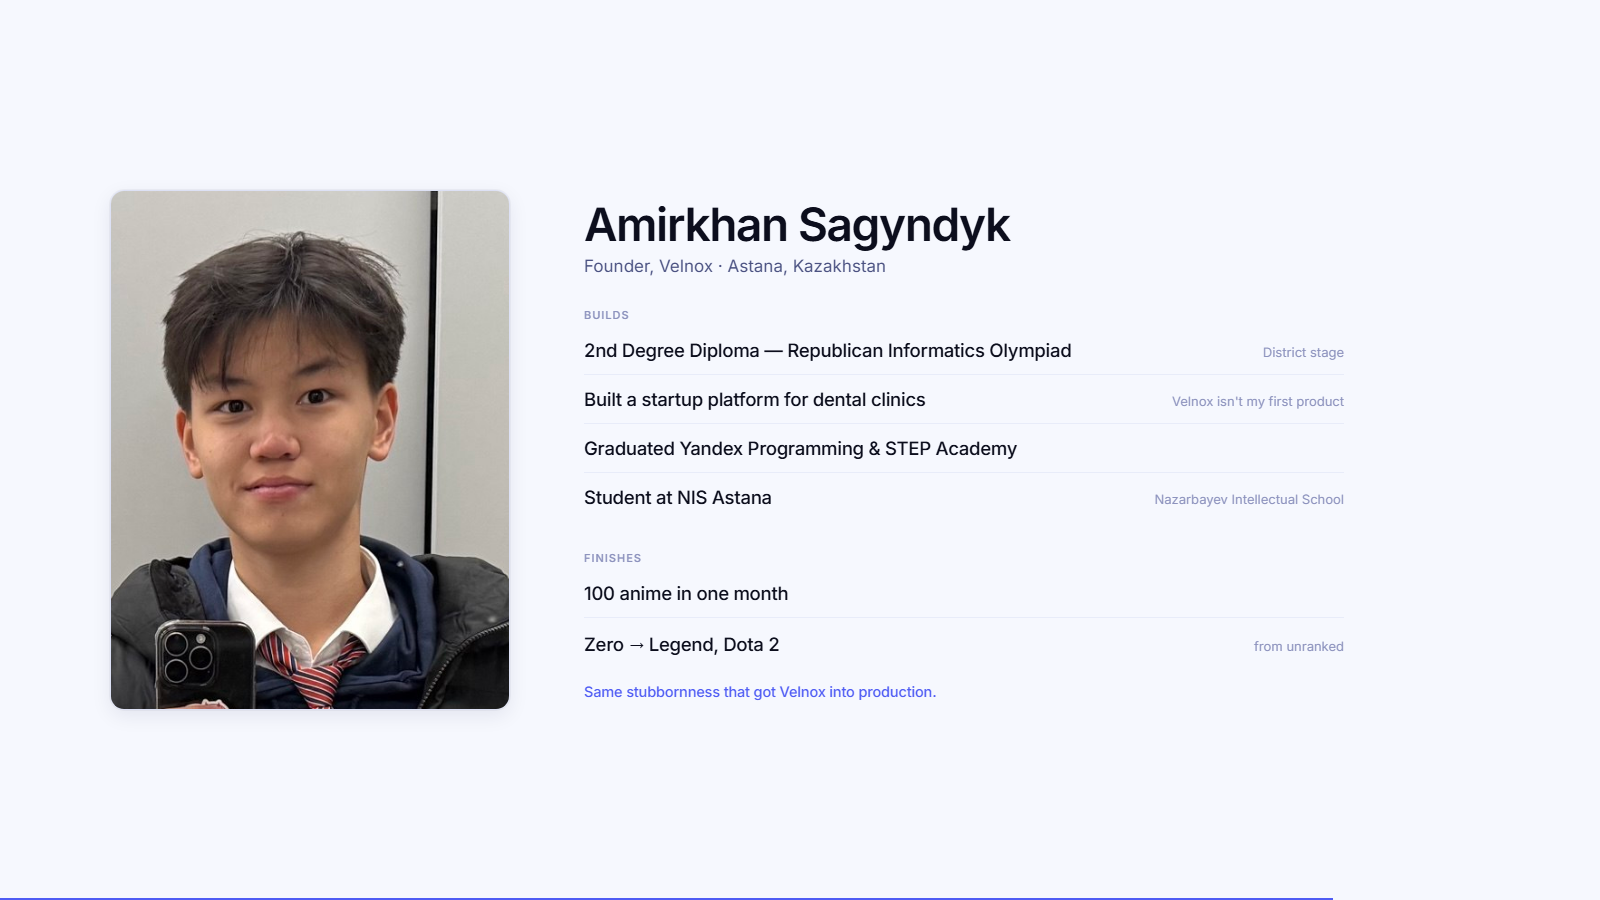
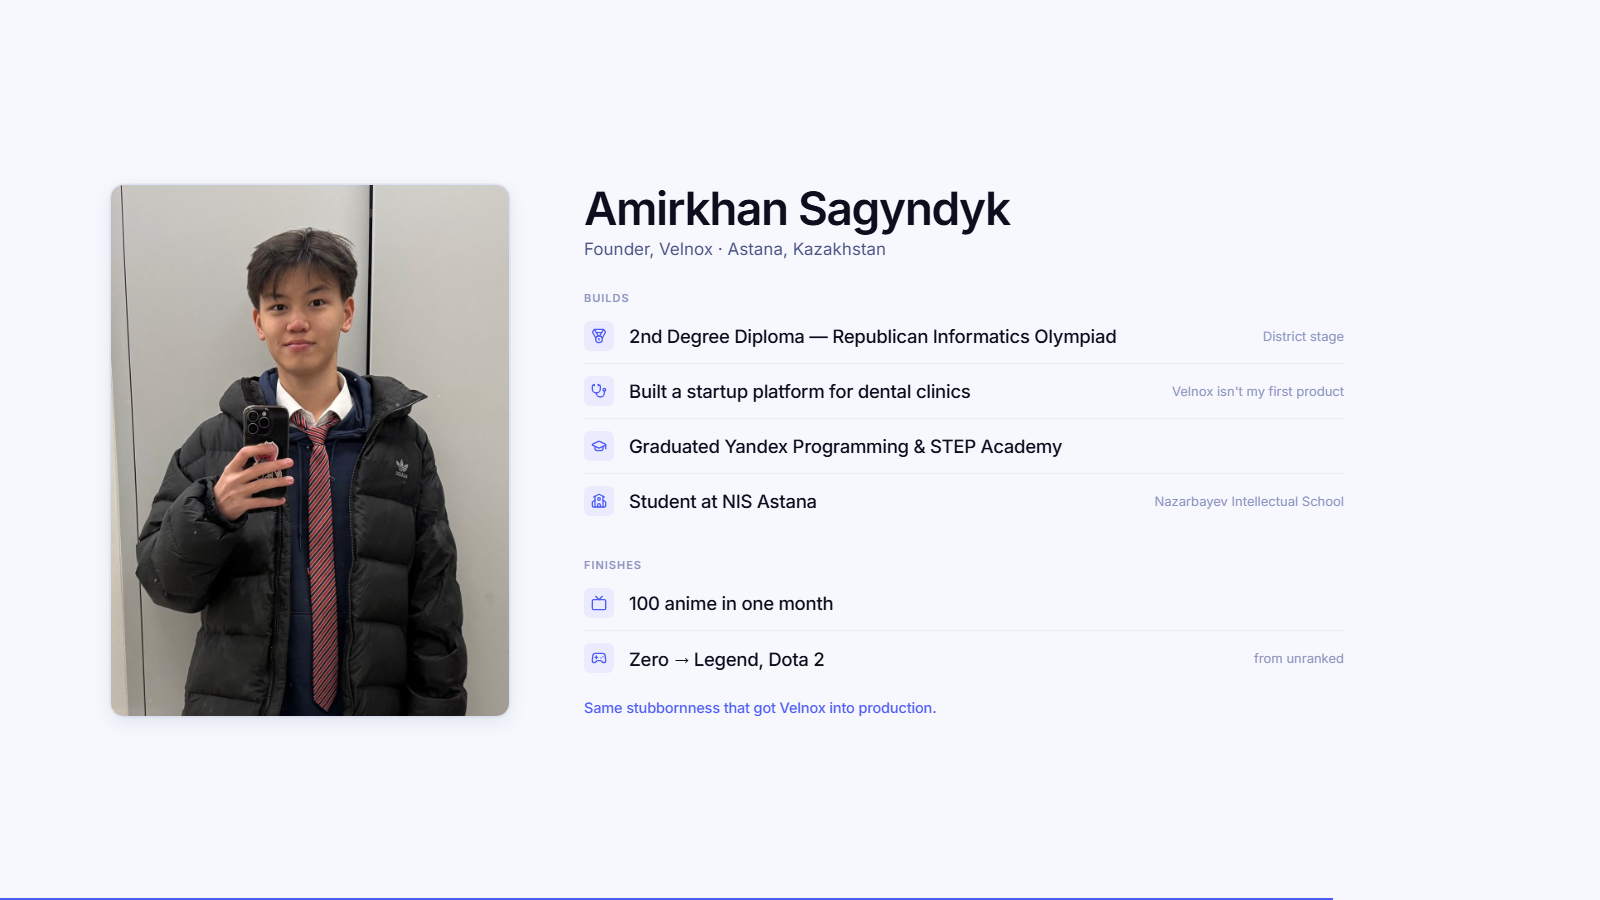
Rework deck slides 3, 5 and 6 again
Slide 3. The landing shot ran off the right edge as a deliberate bleed and read
as broken, which settles it — it now sits fully inside the stage (810 wide,
x690..1500). Adds the annotation the slide was missing: a pulsing ring on the
real "Start free" button with a "112 clicked this" tag. Its coordinates are
measured off the live DOM (left 44.16% / top 46.28% / w 11.67% / h 5.44% of the
1440x900 viewport the shot was taken at), not eyeballed against the PNG.

Slide 5. Photo is no longer re-cropped: the frame is 400x533, exactly the 3:4 of
founder.jpg, so cover crops nothing and the photo shows as framed. Adds lucide
icons to each fact row — the same set the app already uses in 71 places, in the
app's own tinted-square idiom, so they read as Velnox's furniture rather than
decoration.

Slide 6. The ask changes from "send me 10 pilot users" to "don't take my word
for it, open your own inbox". Mentors have no rolodex of freelancers, so asking
them to find one is homework they will defer; every one of them does have an
overflowing Gmail. Making them the user converts the room instead of taxing it,
and invites the critique mentors most like giving. The 10 survives as the stated
target in the footer.

diff --git a/deck/index.html b/deck/index.html
@@ -240,7 +240,7 @@ html, body {
 /* 112 of 500 is a genuinely nested ratio, so the bar can state it without
    inflating anything. It fills on slide entry — the one number worth watching
    arrive. */
-.conv { margin-top: 40px; width: 556px; }
+.conv { margin-top: 38px; width: 500px; }
 .conv-head { display: flex; justify-content: space-between; align-items: baseline; font-size: 13.5px; margin-bottom: 10px; }
 .conv-head span { color: var(--text-muted); }
 .conv-head b { font-weight: 600; color: var(--accent); font-size: 14px; }
@@ -265,16 +265,55 @@ html, body {
 /* The real landing page in real browser chrome — the brief's "realistic browser
    frame". This is the page the 500 visitors actually saw, so it belongs on the
    traction slide rather than a product one. Shot from production at 2×.
-   It bleeds off the right edge only; nothing is severed mid-element. */
+   Sized to sit entirely inside the stage: 810 wide → 506 of image + 38 of bar =
+   544, centred at y=178. An earlier cut ran it off the right edge as a bleed and
+   it just read as broken, which is the only vote that counts. */
 .s3-shot {
   position: absolute;
-  left: 748px; top: 140px;
-  width: 1020px;
+  left: 690px; top: 178px;
+  width: 810px;
   border-radius: var(--radius-xl);
   overflow: hidden;
   border: 1px solid var(--border);
   background: var(--bg-surface);
   box-shadow: var(--shadow-xl);
+}
+
+/* The annotation. Percentages come from the live DOM, not from eyeballing the
+   PNG: the hero CTA measures left 44.16% / top 46.28% / w 11.67% / h 5.44% of
+   the 1440×900 viewport the shot was taken at, inset by 8px a side for the ring.
+   Re-measure if the landing hero ever moves. */
+.shot-body { position: relative; line-height: 0; }
+.pin {
+  position: absolute;
+  left: 43.6%; top: 45.39%; width: 12.78%; height: 7.22%;
+  border: 2px solid var(--accent);
+  border-radius: var(--radius-sm);
+  box-shadow: 0 0 0 5px rgba(79, 92, 244, 0.13);
+}
+.slide[data-active] .pin { animation: pinPulse 2.6s var(--ease) 0.5s infinite; }
+@keyframes pinPulse {
+  0%, 100% { box-shadow: 0 0 0 5px rgba(79, 92, 244, 0.13); }
+  50%      { box-shadow: 0 0 0 11px rgba(79, 92, 244, 0.05); }
+}
+.pin-line {
+  position: absolute;
+  left: 56.4%; top: 49%;
+  width: 1.9%; height: 1.5px;
+  background: var(--accent); opacity: 0.45;
+}
+.pin-tag {
+  position: absolute;
+  left: 58.3%; top: 49%;
+  transform: translateY(-50%);
+  background: var(--bg-surface);
+  border: 1px solid var(--border);
+  border-radius: 100px;
+  padding: 5px 12px;
+  font-size: 11.5px; font-weight: 600; line-height: 1.3;
+  color: var(--accent);
+  box-shadow: var(--shadow-md);
+  white-space: nowrap;
 }
 .bbar {
   height: 38px; display: flex; align-items: center; gap: 12px;
@@ -336,20 +375,21 @@ html, body {
    under a label that names what they are evidence OF, an anime count and a Dota
    climb argue the same thing the olympiad does — he does not put things down. */
 #s5 { padding: 84px 110px; display: grid; grid-template-columns: 400px 1fr; gap: 74px; align-items: center; }
+/* 400×533 is exactly 3:4 — the aspect of founder.jpg (960×1280). With cover on a
+   matching ratio the crop is zero, so the frame shows the photo as shot. The
+   framing was chosen deliberately; the deck's job is to present it, not re-crop
+   it. Swapping in a photo of another aspect will crop — change these two numbers
+   to match it rather than letting cover decide. */
 .portrait {
   position: relative;
-  width: 400px; height: 520px;
+  width: 400px; height: 533px;
   border-radius: var(--radius-xl);
   overflow: hidden;
   background: var(--bg-elevated);
   border: 1px solid var(--border);
   box-shadow: var(--shadow-lg);
 }
-/* Framed to head-and-shoulders. The NIS collar and tie are load-bearing — they
-   corroborate the last line of "Builds" — while the phone and the mirror are
-   not. These three numbers are tuned to this exact 960×1280 file; a replacement
-   photo needs them re-checked, not inherited. */
-.portrait img { position: absolute; width: 870px; left: -245px; top: -52px; display: block; }
+.portrait img { width: 100%; height: 100%; object-fit: cover; display: block; }
 /* Shown only when deck/founder.jpg is absent. A typographic slot — never a
    stock face. public/photos/founder.jpg is stock imagery of an unrelated
    person and is deliberately not used here. */
@@ -369,20 +409,29 @@ html, body {
 .fact-group + .fact-group { margin-top: 30px; }
 .fact-group .label { display: block; margin-bottom: 4px; }
 
-/* No bullets, no ticks — the hairline rules already separate these, and a
-   column of check glyphs reads as a feature list, not as credibility. The meta
-   is right-aligned so the rows read as a ledger: claim, then its evidence. */
+/* Icons are lucide — the same set the product itself uses in 71 places, so they
+   read as Velnox's furniture rather than as decoration bought in. Tinted square
+   + accent glyph is the app's own idiom (see the AI Command Center chip). The
+   meta is right-aligned so each row reads as a ledger: claim, then its evidence. */
 .facts { list-style: none; display: flex; flex-direction: column; max-width: 760px; }
 .facts li {
-  padding: 13px 0;
+  padding: 12px 0;
   border-bottom: 1px solid var(--border-light);
   font-size: 18.5px;
   font-weight: 500;
   color: var(--text-primary);
   letter-spacing: -0.014em;
-  display: flex; align-items: baseline; gap: 20px;
+  display: flex; align-items: center; gap: 15px;
 }
 .facts li:last-child { border-bottom: 0; }
+.facts li .ico {
+  width: 30px; height: 30px; border-radius: var(--radius-sm);
+  background: var(--accent-dim);
+  color: var(--accent);
+  display: inline-flex; align-items: center; justify-content: center;
+  flex-shrink: 0;
+}
+.facts li .ico svg { width: 16px; height: 16px; display: block; }
 .facts li .m {
   font-size: 13px; color: var(--text-muted); font-weight: 400;
   letter-spacing: 0; margin-left: auto; text-align: right; white-space: nowrap;
@@ -559,9 +608,9 @@ html, body {
 
   <!-- ════ 3 · Traction ═════════════════════════════════════════════════ -->
   <section class="slide" id="s3">
-    <div style="position:relative; z-index:2; width:600px;">
-      <h2 class="r display-title" style="font-size:50px; margin-bottom:34px;">
-        It's live. <span class="muted-tail">People sign up.</span>
+    <div style="position:relative; z-index:2; width:520px;">
+      <h2 class="r display-title" style="font-size:50px; margin-bottom:32px;">
+        It's live.<br /><span class="muted-tail">People sign up.</span>
       </h2>
 
       <div class="r s3-hero">
@@ -585,13 +634,19 @@ html, body {
       </div>
     </div>
 
-    <!-- The page those 500 visitors landed on, shot from production at 2×. -->
+    <!-- The page those 500 visitors landed on, shot from production at 2×.
+         The ring sits on the real CTA they really clicked. -->
     <div class="r s3-shot">
       <div class="bbar">
         <span class="bdots"><i></i><i></i><i></i></span>
         <span class="burl">usevelnox.com</span>
       </div>
-      <img src="shots/landing.png" alt="The Velnox landing page at usevelnox.com" />
+      <div class="shot-body">
+        <img src="shots/landing.png" alt="The Velnox landing page at usevelnox.com" />
+        <span class="pin" aria-hidden="true"></span>
+        <span class="pin-line" aria-hidden="true"></span>
+        <span class="pin-tag">112 clicked this</span>
+      </div>
     </div>
   </section>
 
@@ -627,18 +682,36 @@ html, body {
       <div class="r fact-group">
         <span class="label">Builds</span>
         <ul class="facts">
-          <li>2nd Degree Diploma — Republican Informatics Olympiad <span class="m">District stage</span></li>
-          <li>Built a startup platform for dental clinics <span class="m">Velnox isn't my first product</span></li>
-          <li>Graduated Yandex Programming &amp; STEP Academy</li>
-          <li>Student at NIS Astana <span class="m">Nazarbayev Intellectual School</span></li>
+          <li>
+            <span class="ico"><svg viewBox="0 0 24 24" fill="none" stroke="currentColor" stroke-width="2" stroke-linecap="round" stroke-linejoin="round"><path d="M7.21 15 2.66 7.14a2 2 0 0 1 .13-2.2L4.4 2.8A2 2 0 0 1 6 2h12a2 2 0 0 1 1.6.8l1.6 2.14a2 2 0 0 1 .14 2.2L16.79 15"/><path d="M11 12 5.12 2.2"/><path d="m13 12 5.88-9.8"/><path d="M8 7h8"/><circle cx="12" cy="17" r="5"/><path d="M12 18v-2h-.5"/></svg></span>
+            2nd Degree Diploma — Republican Informatics Olympiad <span class="m">District stage</span>
+          </li>
+          <li>
+            <span class="ico"><svg viewBox="0 0 24 24" fill="none" stroke="currentColor" stroke-width="2" stroke-linecap="round" stroke-linejoin="round"><path d="M11 2v2"/><path d="M5 2v2"/><path d="M5 3H4a2 2 0 0 0-2 2v4a6 6 0 0 0 12 0V5a2 2 0 0 0-2-2h-1"/><path d="M8 15a6 6 0 0 0 12 0v-3"/><circle cx="20" cy="10" r="2"/></svg></span>
+            Built a startup platform for dental clinics <span class="m">Velnox isn't my first product</span>
+          </li>
+          <li>
+            <span class="ico"><svg viewBox="0 0 24 24" fill="none" stroke="currentColor" stroke-width="2" stroke-linecap="round" stroke-linejoin="round"><path d="M21.42 10.922a1 1 0 0 0-.019-1.838L12.83 5.18a2 2 0 0 0-1.66 0L2.6 9.08a1 1 0 0 0 0 1.832l8.57 3.908a2 2 0 0 0 1.66 0z"/><path d="M22 10v6"/><path d="M6 12.5V16a6 3 0 0 0 12 0v-3.5"/></svg></span>
+            Graduated Yandex Programming &amp; STEP Academy
+          </li>
+          <li>
+            <span class="ico"><svg viewBox="0 0 24 24" fill="none" stroke="currentColor" stroke-width="2" stroke-linecap="round" stroke-linejoin="round"><path d="M14 21v-3a2 2 0 0 0-4 0v3"/><path d="M18 4.933V21"/><path d="m4 6 7.106-3.79a2 2 0 0 1 1.788 0L20 6"/><path d="m6 11-3.52 2.147a1 1 0 0 0-.48.854V19a2 2 0 0 0 2 2h16a2 2 0 0 0 2-2v-5a1 1 0 0 0-.48-.853L18 11"/><path d="M6 4.933V21"/><circle cx="12" cy="9" r="2"/></svg></span>
+            Student at NIS Astana <span class="m">Nazarbayev Intellectual School</span>
+          </li>
         </ul>
       </div>
 
       <div class="r fact-group">
         <span class="label">Finishes</span>
         <ul class="facts">
-          <li>100 anime in one month</li>
-          <li>Zero → Legend, Dota 2 <span class="m">from unranked</span></li>
+          <li>
+            <span class="ico"><svg viewBox="0 0 24 24" fill="none" stroke="currentColor" stroke-width="2" stroke-linecap="round" stroke-linejoin="round"><path d="m17 2-5 5-5-5"/><rect width="20" height="15" x="2" y="7" rx="2"/></svg></span>
+            100 anime in one month
+          </li>
+          <li>
+            <span class="ico"><svg viewBox="0 0 24 24" fill="none" stroke="currentColor" stroke-width="2" stroke-linecap="round" stroke-linejoin="round"><line x1="6" x2="10" y1="11" y2="11"/><line x1="8" x2="8" y1="9" y2="13"/><line x1="15" x2="15.01" y1="12" y2="12"/><line x1="18" x2="18.01" y1="10" y2="10"/><path d="M17.32 5H6.68a4 4 0 0 0-3.978 3.59c-.006.052-.01.101-.017.152C2.604 9.416 2 14.456 2 16a3 3 0 0 0 3 3c1 0 1.5-.5 2-1l1.414-1.414A2 2 0 0 1 9.828 16h4.344a2 2 0 0 1 1.414.586L17 18c.5.5 1 1 2 1a3 3 0 0 0 3-3c0-1.545-.604-6.584-.685-7.258-.007-.05-.011-.1-.017-.151A4 4 0 0 0 17.32 5z"/></svg></span>
+            Zero → Legend, Dota 2 <span class="m">from unranked</span>
+          </li>
         </ul>
         <p class="s5-note">Same stubbornness that got Velnox into production.</p>
       </div>
@@ -653,17 +726,21 @@ html, body {
         <span style="font-size:28px;">velnox</span>
       </div>
 
-      <h2 class="r display-title" style="font-size:58px;">
-        I need <span id="cnt">10</span> pilot users.<br />
-        <span class="muted-tail">From you, I need one.</span>
+      <h2 class="r display-title" style="font-size:56px;">
+        Don't take my word for it.<br />
+        <span class="muted-tail">Open your own inbox.</span>
       </h2>
 
       <p class="r s6-sub">
-        One freelancer, agency owner or consultant who runs their business out of Gmail.
-        I'll onboard them myself, this week.
+        Scan it. Connect your Gmail. Velnox will name the client you've left
+        waiting longest — and draft the reply. If it gets you wrong, tell me and
+        I'll fix it this week.
       </p>
 
-      <p class="r s6-mail">Send them to <b>usevelnox.com</b> — or straight to me: <b>sagindiktar@gmail.com</b></p>
+      <p class="r s6-mail">
+        Looking for my first <b id="cnt">10</b> pilot users ·
+        <b>sagindiktar@gmail.com</b>
+      </p>
     </div>
 
     <!-- Real QR, real destination. Generated with `npx qrcode -e H` and inlined
